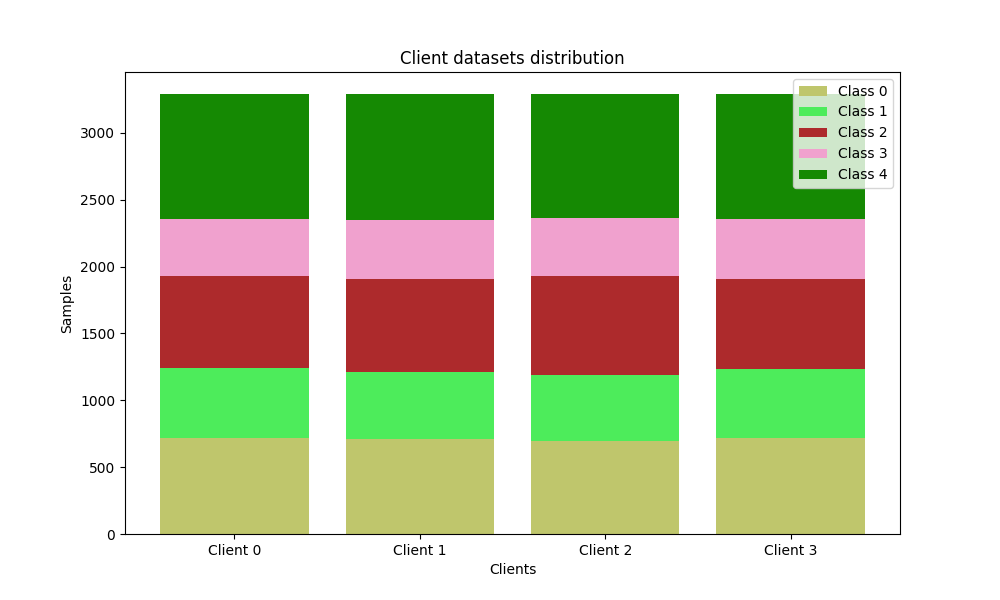
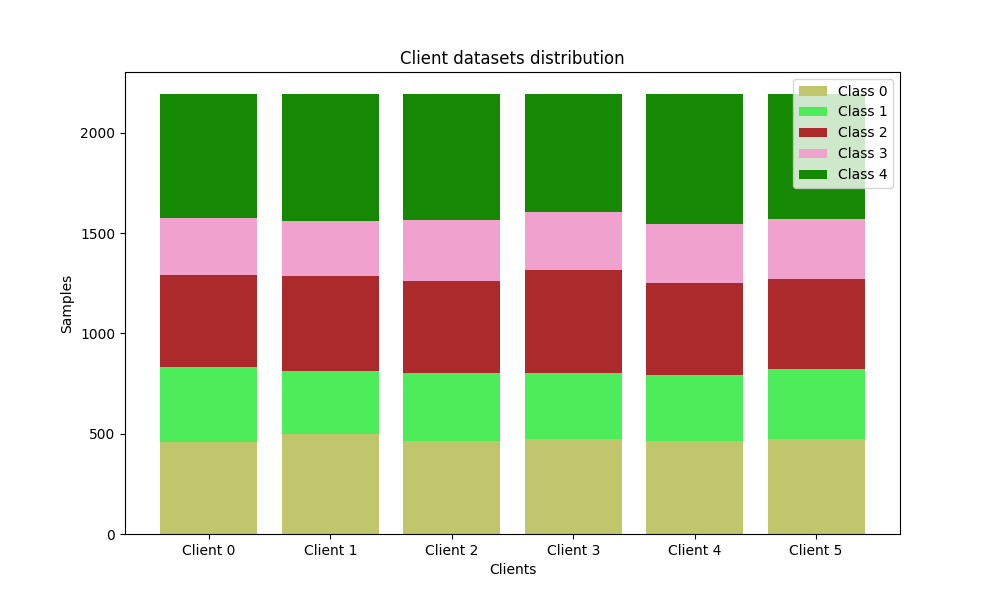
runs iid

diff --git a/options.py b/options.py
@@ -2,8 +2,8 @@ import argparse
 import torch
 
 num_communication = 300
-num_edge_aggregation = 10
-num_local_update = 5
+num_edge_aggregation = 1
+num_local_update = 50
 num_clients = 6
 skewness = "label"
 
@@ -67,7 +67,7 @@ def args_parser():
     parser.add_argument(
         "--iid",
         type=int,
-        default=0,
+        default=1,
         help="distribution of the data among clients, 0 (non-iid), 1 (iid)",
     )
     parser.add_argument(
